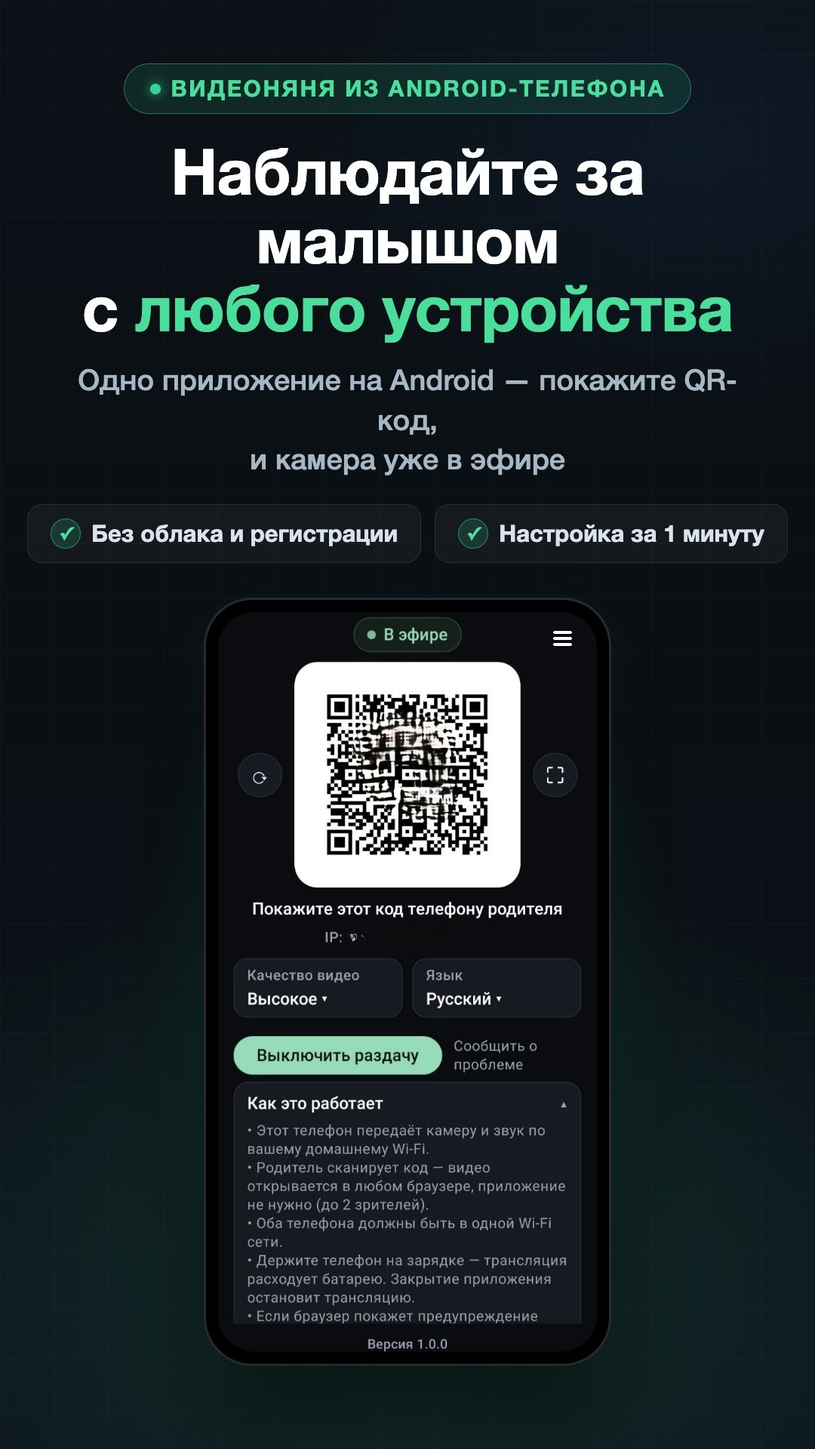
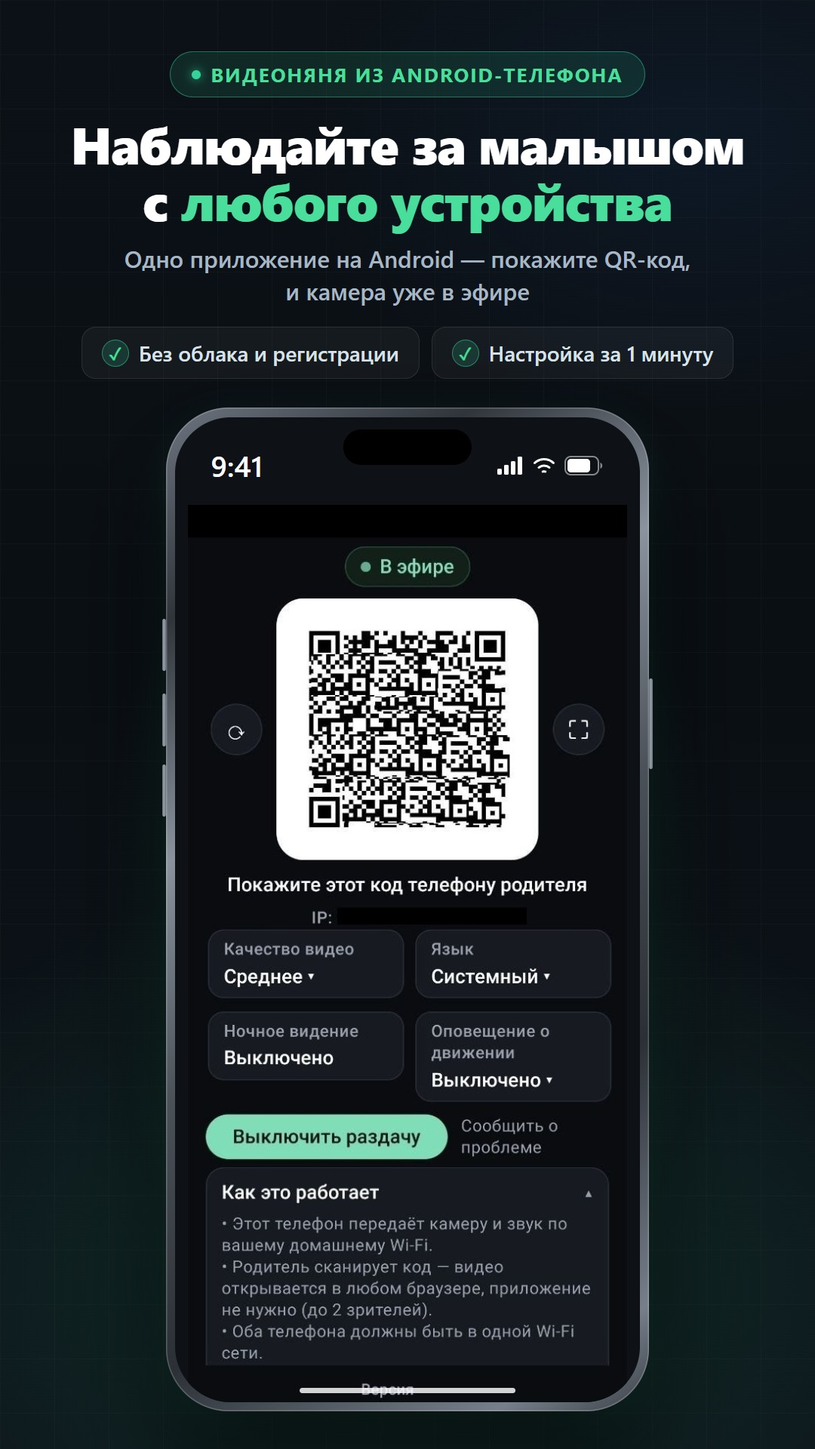
норм версия

Changed region(s): [[0.0611, 0.0312, 0.9472, 1.0], [0.2444, 0.4688, 0.3056, 0.5312]]

diff --git a/apps/videonyanya/terms.html b/apps/videonyanya/terms.html
@@ -6,7 +6,7 @@
 <title>Видеоняня — Условия использования · AppCreatorsTechnoLab</title>
 <meta name="description" content="Условия использования Nestling Camera (Видеоняня) от AppCreatorsTechnoLab. RU + EN.">
 <link rel="icon" href="../../assets/img/favicon.svg" type="image/svg+xml">
-<link rel="stylesheet" href="../../assets/css/style.css">
+<link rel="stylesheet" href="../../assets/css/style.css?v=542dd2c2">
 </head>
 <body>
 <header class="site"><div class="wrap nav">
@@ -20,23 +20,25 @@
 <div class="meta"><span>AppCreatorsTechnoLab</span><span>·</span><span>Nestling Camera</span></div>
 <div class="doc">Условия использования Nestling Camera («Видеоняня»)
 
-1. Назначение. Приложение — бытовая видеоняня для локального наблюдения по домашнему Wi-Fi. Это не медицинское устройство, не охранная система и не замена присмотру за ребёнком.
-2. Как работает. Станция раздаёт видео/звук по локальной сети; родитель подключается браузером по QR-коду. Оба устройства должны быть в одной Wi-Fi сети.
-3. Ваши обязанности. Используйте приложение законно и только там, где у вас есть право вести наблюдение. Снимая других людей, получите их согласие, если этого требует закон. Не используйте приложение для скрытого наблюдения в нарушение закона.
-4. Ограничения. До 2 зрителей одновременно. Качество и стабильность зависят от вашего Wi-Fi и устройств. Ротация кода (⟳) и выключение станции отключают всех зрителей.
-5. Реклама. В приложении может показываться реклама; её содержание определяет рекламная сеть.
-6. Ответственность. Приложение предоставляется «как есть», без гарантий бесперебойной работы. Мы не несём ответственности за ущерб от перерывов трансляции, потери связи или неправильного использования.
-7. Изменения. Условия могут обновляться вместе с приложением. Продолжая использовать приложение, вы принимаете новую редакцию.</div>
+1. Назначение. Приложение — бытовая видеоняня для локального наблюдения по домашнему Wi-Fi. Это не медицинское устройство, не охранная система и не замена присмотру за ребёнком. Оповещение о движении — вспомогательная функция, а не гарантия безопасности.
+2. Как работает. Станция раздаёт видео/звук по локальной сети; родитель подключается браузером по QR-коду. Оба устройства должны быть в одной Wi-Fi сети. Дополнительно станция сама анализирует картинку и сообщает родителю о движении. Анализ идёт на самой станции: снимки не сохраняются и никуда не отправляются, родитель получает только сигнал «движение есть / успокоилось».
+3. Оповещение о движении. Детектор реагирует на изменение картинки, а не на людей: колышущаяся занавеска, движущаяся тень или животное тоже вызовут сигнал, а в тёмной комнате детектор работает шумнее и может пропустить движение. Уровни «Нормально» и «Чувствительно» меняют чувствительность, «Выключено» отключает оповещение полностью. Сигнал гаснет сам примерно через 5 секунд тишины. Тап родителя по картинке означает «вижу, всё в порядке»: тревога гасится и на станции, а следующее движение снова её вызовет.
+4. Ваши обязанности. Используйте приложение законно и только там, где у вас есть право вести наблюдение. Снимая других людей, получите их согласие, если этого требует закон. Не используйте приложение для скрытого наблюдения в нарушение закона.
+5. Ограничения. До 2 зрителей одновременно. Качество и стабильность зависят от вашего Wi-Fi и устройств. Ротация кода (⟳) и выключение станции отключают всех зрителей.
+6. Реклама. В приложении может показываться реклама; её содержание определяет рекламная сеть.
+7. Ответственность. Приложение предоставляется «как есть», без гарантий бесперебойной работы. Мы не несём ответственности за ущерб от перерывов трансляции, потери связи, неправильного использования, а также от ложных или пропущенных срабатываний оповещения о движении.
+8. Изменения. Условия могут обновляться вместе с приложением. Продолжая использовать приложение, вы принимаете новую редакцию.</div>
 <h2 style="margin-top:26px">English version</h2>
 <div class="doc">Nestling Camera Terms of Use
 
-1. Purpose. The app is a household baby monitor for local viewing over home Wi-Fi. It is not a medical device, not a security system, and not a substitute for child supervision.
-2. How it works. The station streams video/audio over the local network; the parent connects via browser using the QR code. Both devices must be on the same Wi-Fi network.
-3. Your responsibilities. Use the app lawfully and only where you are allowed to observe. Obtain consent of filmed persons where required by law. Do not use the app for covert surveillance in violation of the law.
-4. Limits. Up to 2 simultaneous viewers. Quality and stability depend on your Wi-Fi and devices. Rotating the code (⟳) or stopping the station disconnects all viewers.
-5. Ads. The app may show ads; their content is determined by the ad network.
-6. Liability. The app is provided "as is", without uptime guarantees. We are not liable for damage from stream interruptions, lost connections, or misuse.
-7. Changes. Terms may be updated with the app. Continued use means acceptance of the new version.</div>
+1. Purpose. The app is a household baby monitor for local viewing over home Wi-Fi. It is not a medical device, not a security system, and not a substitute for child supervision. Motion alerts are an extra feature, not a safety guarantee.
+2. How it works. The station streams video/audio over the local network; the parent connects via browser using the QR code. Both devices must be on the same Wi-Fi network. In addition, the station analyses the picture itself and reports motion to the parent. The analysis runs on the station: no snapshots are saved or sent anywhere, the parent receives only a «motion / calmed» signal.
+3. Motion alerts. The detector reacts to changes in the picture, not to people: a moving curtain, a passing shadow or a pet will trigger it too, and in a dark room it is noisier and may miss movement. The «Normal» and «Sensitive» levels change sensitivity, «Off» disables alerts entirely. The alert clears by itself after about 5 seconds of quiet. The parent's tap on the picture means «I see it, all fine»: it calms the alert on the station too, and the next motion triggers it again.
+4. Your responsibilities. Use the app lawfully and only where you are allowed to observe. Obtain consent of filmed persons where required by law. Do not use the app for covert surveillance in violation of the law.
+5. Limits. Up to 2 simultaneous viewers. Quality and stability depend on your Wi-Fi and devices. Rotating the code (⟳) or stopping the station disconnects all viewers.
+6. Ads. The app may show ads; their content is determined by the ad network.
+7. Liability. The app is provided "as is", without uptime guarantees. We are not liable for damage from stream interruptions, lost connections, misuse, or false or missed motion alerts.
+8. Changes. Terms may be updated with the app. Continued use means acceptance of the new version.</div>
 <p class="hint" style="margin-top:16px"><a href="privacy.html">← Политика конфиденциальности</a> · <a href="index.html">Назад к приложению</a></p>
 </div></section>
 </main>

diff --git a/apps/videonyanya/index.html b/apps/videonyanya/index.html
@@ -6,7 +6,7 @@
 <title>Видеоняня — Nestling Camera · AppCreatorsTechnoLab</title>
 <meta name="description" content="Видеоняня от AppCreatorsTechnoLab: превратите Android-телефон в умную видеоняню. Без регистрации, по домашнему Wi-Fi, до 2 зрителей.">
 <link rel="icon" href="../../assets/img/favicon.svg" type="image/svg+xml">
-<link rel="stylesheet" href="../../assets/css/style.css">
+<link rel="stylesheet" href="../../assets/css/style.css?v=542dd2c2">
 </head>
 <body>
 <header class="site">
@@ -26,9 +26,8 @@
       <div><h1 style="margin:0">Видеоняня <span>Nestling Camera</span></h1>
       <p class="lead">Бесплатно превратите Android-телефон в умную видеоняню. Родительскому телефону приложение не нужно — видео открывается в браузере.</p></div>
     </div>
-    <div class="badges" style="padding-bottom:6px"><span class="badge">v1.1.1</span><span class="badge ok">Android 7.0+</span><span class="badge">Русский / English</span></div>
+    <div class="badges" style="padding-bottom:6px"><span class="badge">v1.1.2</span><span class="badge ok">Android 7.0+</span><span class="badge">Русский / English</span></div>
     <div class="card-actions">
-      <a class="btn primary" href="https://www.rustore.ru/catalog/app/dev.nestling.station" target="_blank" rel="noopener">Скачать в RuStore</a>
       <a class="btn ghost" href="https://appcreatores.win/apps/videonyanya/privacy.html">Политика конфиденциальности</a>
       <a class="btn ghost" href="https://appcreatores.win/apps/videonyanya/terms.html">Условия использования</a>
     </div></div>
@@ -38,9 +37,8 @@
     <h2>Скачать</h2>
     <p class="hint">Официальные магазины. Если кнопки нет — публикация в процессе.</p>
     <div class="store-row">
-      <a class="btn primary" href="https://www.rustore.ru/catalog/app/dev.nestling.station" target="_blank" rel="noopener">RuStore — скачать</a>
-      <span class="btn disabled" title="Публикация в процессе">Google Play — скоро будет</span>
-      <span class="btn disabled" title="Публикация в процессе">App Store — скоро будет</span>
+      <a class="btn primary" href="https://www.rustore.ru/catalog/app/dev.nestling.station" target="_blank" rel="noopener">Скачать в RuStore</a>
+      <a class="btn primary" href="nestlingCamera.apk" download>Скачать APK</a>
     </div>
   </section>
 
@@ -52,7 +50,6 @@
       <figure class="shot"><button class="shot-btn" data-caption="Смотрите с любого устройства в браузере"><img src="../../assets/img/videonyanya-02.jpg" alt="Видеоняня — обложка 2" loading="lazy"></button><figcaption>02 · Просмотр в браузере</figcaption></figure>
       <figure class="shot"><button class="shot-btn" data-caption="Ночное видение и качество под ваш Wi-Fi"><img src="../../assets/img/videonyanya-03.jpg" alt="Видеоняня — обложка 3" loading="lazy"></button><figcaption>03 · Ночь и качество</figcaption></figure>
       <figure class="shot"><button class="shot-btn" data-caption="Звук, фото в один тап, контроль заряда"><img src="../../assets/img/videonyanya-04.jpg" alt="Видеоняня — обложка 4" loading="lazy"></button><figcaption>04 · Звук и заряд</figcaption></figure>
-      <figure class="shot"><button class="shot-btn" data-caption="Данные остаются дома — только ваш Wi-Fi"><img src="../../assets/img/videonyanya-05.jpg" alt="Видеоняня — обложка 5" loading="lazy"></button><figcaption>05 · Приватность</figcaption></figure>
     </div>
   </section>
 
@@ -76,7 +73,7 @@
       <div class="feat"><div class="tile">HD</div><b>Качество под ваш Wi-Fi</b><span>Высокое (Full HD 30 fps), Среднее, Экономное — переключается со стороны родителя.</span></div>
       <div class="feat"><div class="tile">AU</div><b>Живой звук и фото</b><span>Слышно каждое сопение. Кнопка «Фото» сохраняет милый момент в один тап.</span></div>
       <div class="feat"><div class="tile">BT</div><b>Заряд перед глазами</b><span>Предупреждение при 20%, «поставьте на зарядку» при 10%. Трансляция не оборвётся внезапно.</span></div>
-      <div class="feat"><div class="tile">MS</div><b>Задержка и управление</b><span>Задержка видна на экране. Качество, ночь и выключение раздачи — из окна просмотра.</span></div>
+      <div class="feat"><div class="tile">MD</div><b>Детектор движения</b><span>Станция сама следит за картинкой и присылает сигнал, когда малыш зашевелился. Три уровня чувствительности, снимки никуда не отправляются.</span></div>
       <div class="feat"><div class="tile">FS</div><b>Полный экран</b><span>Режимы «Полноэкранный» и «Во весь экран» — картинка без чёрных полос.</span></div>
     </div>
   </section>

diff --git a/index.html b/index.html
@@ -6,7 +6,7 @@
 <title>AppCreatorsTechnoLab — сборник приложений</title>
 <meta name="description" content="AppCreatorsTechnoLab: Видеоняня (Nestling Camera), Архив гарантий и Дневник здоровья. Официальные страницы, возможности, скриншоты, политика конфиденциальности и условия использования.">
 <link rel="icon" href="assets/img/favicon.svg" type="image/svg+xml">
-<link rel="stylesheet" href="assets/css/style.css">
+<link rel="stylesheet" href="assets/css/style.css?v=542dd2c2">
 </head>
 <body>
 <header class="site">
@@ -28,19 +28,20 @@
 
   <section class="grid apps">
     <article class="card">
+      <a class="card-hit" href="apps/videonyanya/index.html" aria-label="Открыть страницу Видеоняни"></a>
       <div class="card-top">
         <img class="app-icon" src="assets/img/videonyanya-icon.png" alt="Иконка Видеоняня">
         <div><h2>Видеоняня</h2><p class="sub">Nestling Camera · v1.1.1</p></div>
       </div>
       <div class="badges"><span class="badge ok">Android 7.0+</span><span class="badge">Без регистрации</span><span class="badge">Локальный Wi-Fi</span><span class="badge">До 2 зрителей</span><span class="badge">Просмотр с любого устройства</span></div>
-      <p class="desc">Ставите телефон в детской, сканируете QR вторым устройством — видео открывается в обычном браузере. Ночное видение, качество Full HD/Среднее/Эконом, звук, фото в один тап, контроль заряда.</p>
+      <p class="desc">Ставите телефон в детской, сканируете QR вторым устройством — видео открывается в обычном браузере. Ночное видение, качество Full HD/Среднее/Эконом, звук, фото в один тап, контроль заряда, детектор движения.</p>
       <div class="card-actions">
-        <a class="btn primary" href="apps/videonyanya/index.html">Открыть страницу</a>
         <a class="btn ghost" href="https://www.rustore.ru/catalog/app/dev.nestling.station" target="_blank" rel="noopener">RuStore</a>
       </div>
     </article>
 
     <article class="card">
+      <a class="card-hit" href="apps/garant/index.html" aria-label="Открыть страницу Архива гарантий"></a>
       <div class="card-top">
         <img class="app-icon" src="assets/img/garant-icon.png" alt="Иконка Архив гарантий">
         <div><h2>Архив гарантий</h2><p class="sub">Warranty Archive · Flutter · v1.0.2</p></div>
@@ -48,12 +49,12 @@
       <div class="badges"><span class="badge ok">Android · iOS</span><span class="badge">Офлайн-каталог</span><span class="badge">ИИ-распознавание чеков</span></div>
       <p class="desc">Чеки, гарантии, инструкции и серийники — всё в одном локальном каталоге. Фото талона → карточка заполняется сама. Напоминания, ПИН и биометрия, резервная копия ZIP.</p>
       <div class="card-actions">
-        <a class="btn primary" href="apps/garant/index.html">Открыть страницу</a>
         <a class="btn ghost" href="https://www.rustore.ru/catalog/app/ru.homecatalog.garant" target="_blank" rel="noopener">RuStore</a>
       </div>
     </article>
 
     <article class="card">
+      <a class="card-hit" href="apps/health-diary/index.html" aria-label="Открыть страницу Дневника здоровья"></a>
       <div class="card-top">
         <img class="app-icon" src="assets/img/health-diary-icon.png" alt="Иконка Дневник здоровья">
         <div><h2>Дневник здоровья</h2><p class="sub">Health Diary · v1.0.0</p></div>
@@ -61,7 +62,6 @@
       <div class="badges"><span class="badge ok">Android 9.0+ · iOS 16+</span><span class="badge">Без регистрации</span><span class="badge">Офлайн</span><span class="badge">PDF для врача</span></div>
       <p class="desc">Здоровье всей семьи в одном приложении: болезни и симптомы, план прививок, анализы с графиком динамики, статистика и отчёт в PDF. Без аккаунта и без облака — всё на вашем устройстве.</p>
       <div class="card-actions">
-        <a class="btn primary" href="apps/health-diary/index.html">Открыть страницу</a>
         <a class="btn ghost" href="https://www.rustore.ru/catalog/app/com.healtharchive.app" target="_blank" rel="noopener">RuStore</a>
       </div>
     </article>

diff --git a/apps/videonyanya/privacy.html b/apps/videonyanya/privacy.html
@@ -6,7 +6,7 @@
 <title>Видеоняня — Политика конфиденциальности · AppCreatorsTechnoLab</title>
 <meta name="description" content="Политика конфиденциальности Nestling Camera (Видеоняня) от AppCreatorsTechnoLab. RU + EN.">
 <link rel="icon" href="../../assets/img/favicon.svg" type="image/svg+xml">
-<link rel="stylesheet" href="../../assets/css/style.css">
+<link rel="stylesheet" href="../../assets/css/style.css?v=542dd2c2">
 </head>
 <body>
 <header class="site"><div class="wrap nav">
@@ -23,6 +23,8 @@
 1. Что делает приложение. Приложение превращает Android-телефон («станция») в локальную камеру: видео и звук передаются по вашей домашней Wi-Fi сети напрямую в браузер родителя. Облачных серверов у нас нет — видео не уходит в интернет и не хранится у нас.
 2. Какие данные обрабатываются.
    • Видео и аудио с камеры/микрофона станции — передаются только подключённому зрителю (до 2 зрителей) по зашифрованному соединению (HTTPS/WSS) внутри вашей сети. Мы эти данные не получаем и не храним.
+   • Детектор движения — работает на станции, локально. Картинка для анализа никуда не отправляется и нигде не сохраняется: ни снимков, ни файлов, ни истории кадров на диске. В браузер родителя уходит только факт «движение есть / успокоилось», без изображения.
+   • Подтверждение родителя — тап по картинке отправляет на станцию только сигнал «вижу, всё в порядке». Ни видео, ни звук при этом не передаются.
    • Токен сопряжения и отпечаток сертификата — хранятся только на станции и нужны для подключения по QR-коду.
    • Технические данные устройства (уровень заряда, задержка, журнал ошибок) — показываются родителю в браузере и хранятся только на устройствах.
 3. Реклама. На экране станции показывается реклама Яндекс Рекламной сети (РСЯ). РСЯ может обрабатывать рекламные идентификаторы устройства по своей политике конфиденциальности. Отключение рекламы не предусмотрено текущей версией.
@@ -36,6 +38,8 @@
 1. What the app does. The app turns an Android phone ("station") into a local camera: video and audio are streamed over your home Wi-Fi directly to the parent's browser. We have no cloud servers — video never leaves your network and is never stored by us.
 2. Data processed.
    • Camera/microphone video and audio — sent only to connected viewers (up to 2) over an encrypted connection (HTTPS/WSS) inside your network. We do not receive or store it.
+   • Motion detector — runs locally on the station. The picture analysed for motion is never sent anywhere and never stored: no snapshots, no files, no frame history on disk. The parent's browser receives only the fact «motion / calmed», without any image.
+   • Parent acknowledgement — tapping the picture sends the station only an «I see it, all fine» signal. No video or audio is transmitted with it.
    • Pairing token and certificate fingerprint — stored only on the station, needed for QR-code pairing.
    • Technical data (battery level, latency, error log) — shown to the parent in the browser, stored only on the devices.
 3. Ads. The station screen shows Yandex Advertising Network ads. Yandex may process device advertising identifiers under its own privacy policy.

diff --git a/assets/css/style.css b/assets/css/style.css
@@ -41,10 +41,18 @@ h1 span{background:linear-gradient(90deg,#b7aaff,var(--accent2));-webkit-backgro
 .grid{display:grid;gap:18px}
 .apps{grid-template-columns:repeat(auto-fit,minmax(min(300px,100%),1fr));margin:28px 0 10px}
 .card{
+  position:relative;
   background:linear-gradient(180deg,rgba(255,255,255,.06),rgba(255,255,255,.02));
   border:1px solid var(--line);border-radius:var(--radius);overflow:hidden;
   display:flex;flex-direction:column;box-shadow:var(--shadow);
 }
+/* Вся карточка кликабельна: прозрачная ссылка-оверлей поверх карточки,
+   кнопки внутри actions остаются выше неё. */
+.card-hit{position:absolute;inset:0;z-index:1;border-radius:var(--radius);overflow:hidden;font-size:0}
+.card-hit:focus-visible{outline:2px solid var(--accent2);outline-offset:-2px}
+.card-actions .btn{position:relative;z-index:2}
+.card:has(.card-hit:hover){border-color:rgba(124,108,255,.55);transform:translateY(-2px)}
+.card{transition:border-color .2s,transform .2s}
 .card-top{padding:22px;display:flex;gap:16px;align-items:center}
 .app-icon{width:72px;height:72px;border-radius:20px;object-fit:cover;background:#0e1530;border:1px solid var(--line);flex:none}
 .app-icon.fallback{display:grid;place-items:center;font-size:30px;font-weight:800;background:linear-gradient(135deg,#2a2f6b,#0e4a5a)}

diff --git a/apps/garant/index.html b/apps/garant/index.html
@@ -6,7 +6,7 @@
 <title>Архив гарантий — Warranty Archive · AppCreatorsTechnoLab</title>
 <meta name="description" content="Архив гарантий от AppCreatorsTechnoLab: локальный каталог чеков, гарантий и документов с ИИ-распознаванием. Android, iOS.">
 <link rel="icon" href="../../assets/img/favicon.svg" type="image/svg+xml">
-<link rel="stylesheet" href="../../assets/css/style.css">
+<link rel="stylesheet" href="../../assets/css/style.css?v=542dd2c2">
 </head>
 <body>
 <header class="site">
@@ -38,6 +38,7 @@
     <p class="hint">Официальные магазины. Если кнопки нет — публикация в процессе.</p>
     <div class="store-row">
       <a class="btn primary" href="https://www.rustore.ru/catalog/app/ru.homecatalog.garant" target="_blank" rel="noopener">Скачать в RuStore</a>
+      <a class="btn primary" href="garant-1.0.2.apk" download>Скачать APK</a>
       <span class="btn disabled" title="Публикация в процессе">Google Play — скоро будет</span>
       <span class="btn disabled" title="Публикация в процессе">App Store — скоро будет</span>
     </div>

diff --git a/apps/health-diary/index.html b/apps/health-diary/index.html
@@ -6,7 +6,7 @@
 <title>Дневник здоровья — Health Diary · AppCreatorsTechnoLab</title>
 <meta name="description" content="Дневник здоровья от AppCreatorsTechnoLab: офлайн-дневник здоровья семьи — болезни, анализы и прививки, календарь, статистика и PDF-отчёт для врача. Android, iOS.">
 <link rel="icon" href="../../assets/img/favicon.svg" type="image/svg+xml">
-<link rel="stylesheet" href="../../assets/css/style.css">
+<link rel="stylesheet" href="../../assets/css/style.css?v=542dd2c2">
 </head>
 <body>
 <header class="site">

diff --git a/legal.html b/legal.html
@@ -6,7 +6,7 @@
 <title>Правовые документы — AppCreatorsTechnoLab</title>
 <meta name="description" content="AppCreatorsTechnoLab: политика конфиденциальности и условия использования по каждому приложению — Видеоняня, Архив гарантий и Дневник здоровья. RU + EN.">
 <link rel="icon" href="assets/img/favicon.svg" type="image/svg+xml">
-<link rel="stylesheet" href="assets/css/style.css">
+<link rel="stylesheet" href="assets/css/style.css?v=542dd2c2">
 </head>
 <body>
 <header class="site">

diff --git a/apps/health-diary/privacy.html b/apps/health-diary/privacy.html
@@ -6,7 +6,7 @@
 <title>Дневник здоровья — Политика конфиденциальности · AppCreatorsTechnoLab</title>
 <meta name="description" content="Политика конфиденциальности Дневника здоровья от AppCreatorsTechnoLab. RU + EN.">
 <link rel="icon" href="../../assets/img/favicon.svg" type="image/svg+xml">
-<link rel="stylesheet" href="../../assets/css/style.css">
+<link rel="stylesheet" href="../../assets/css/style.css?v=542dd2c2">
 </head>
 <body>
 <header class="site"><div class="wrap nav">

diff --git a/apps/garant/privacy.html b/apps/garant/privacy.html
@@ -6,7 +6,7 @@
 <title>Архив гарантий — Политика конфиденциальности · AppCreatorsTechnoLab</title>
 <meta name="description" content="Политика конфиденциальности приложения Архив гарантий (Home Catalog).">
 <link rel="icon" href="../../assets/img/favicon.svg" type="image/svg+xml">
-<link rel="stylesheet" href="../../assets/css/style.css">
+<link rel="stylesheet" href="../../assets/css/style.css?v=542dd2c2">
 </head>
 <body>
 <header class="site"><div class="wrap nav">

diff --git a/apps/health-diary/terms.html b/apps/health-diary/terms.html
@@ -6,7 +6,7 @@
 <title>Дневник здоровья — Условия использования · AppCreatorsTechnoLab</title>
 <meta name="description" content="Условия использования Дневника здоровья от AppCreatorsTechnoLab. RU + EN.">
 <link rel="icon" href="../../assets/img/favicon.svg" type="image/svg+xml">
-<link rel="stylesheet" href="../../assets/css/style.css">
+<link rel="stylesheet" href="../../assets/css/style.css?v=542dd2c2">
 </head>
 <body>
 <header class="site"><div class="wrap nav">

diff --git a/apps/garant/terms.html b/apps/garant/terms.html
@@ -6,7 +6,7 @@
 <title>Архив гарантий — Условия использования · AppCreatorsTechnoLab</title>
 <meta name="description" content="Условия использования приложения Архив гарантий (Home Catalog).">
 <link rel="icon" href="../../assets/img/favicon.svg" type="image/svg+xml">
-<link rel="stylesheet" href="../../assets/css/style.css">
+<link rel="stylesheet" href="../../assets/css/style.css?v=542dd2c2">
 </head>
 <body>
 <header class="site"><div class="wrap nav">
